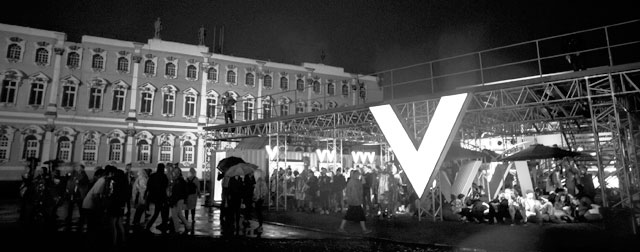
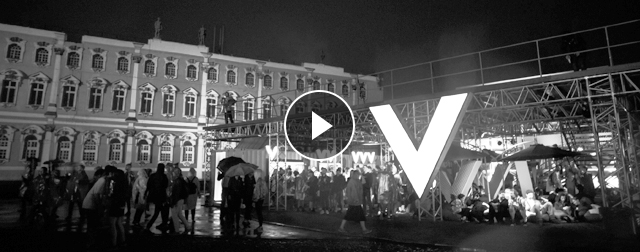
video new jpg

Changed region(s): [[0.4375, 0.3611, 0.5625, 0.6389]]

diff --git a/index.html b/index.html
@@ -46,7 +46,7 @@
                 26.07.2017
             </div>
             <div class="blog-post__image-wrapper">
-              <a href="http://static.beeline.ru/upload/images/veon_video/VEON_PPF.mp4" target="_blank" class="play-button"><img class="blog-post__image" src="./img/2_640x252.jpg" alt="VEON"></a>
+              <a href="http://static.beeline.ru/upload/images/veon_video/VEON__PPF.mp4" target="_blank" class="play-button"><img class="blog-post__image" src="./img/2_640x252.jpg" alt="VEON"></a>
             </div>
             </div>
             <div class="blog-post__header">
@@ -61,7 +61,7 @@
                    <br>Выставка FACES&LACES пройдет в Москве с 12 по 13 августа и займет все свободные пространства Парка Горького. На масштабных конструкциях галереи VEON посетители увидят работы актуальных граффити райтеров и представителей альтернативного современного искусства, а музыкальная часть в этом году обещает быть одной из самых важных составляющих мероприятия.<br>
                    <br>Подписавшись на канал FACES&LACES в VEON, посетители смогут быть в курсе всех событий художественной и музыкальной программы. Для пользователей приложения предусмотрены: лучший вид на главную сцену с открытых террас VEON, зоны, объединяющие искусство и технологии, яркие сувениры и самая актуальная информация о выставке в режиме онлайн.<br>
                    <br>Платформа VEON позволяет звонить, писать сообщения, обмениваться фото и видео, быть в курсе всех интересных событий, получать бесплатный легальный контент, подобранный под интересы пользователя, а также специальные предложения – уникальные скидки и бонусы от популярных брендов. Для клиентов «Билайн» в приложении доступны функции личного кабинета, а трафик внутри приложения не тарифицируется. Приложение можно скачать бесплатно в App Store и Google Play.<br>
-                   <br><a href="http://static.beeline.ru/upload/images/veon_video/VEON_PPF.mp4" target="_blank" class="play-button">Смотреть видео</a>
+                   <br><a href="http://static.beeline.ru/upload/images/veon_video/VEON__PPF.mp4" target="_blank" class="play-button">Смотреть видео</a>
                 </span>
             </div>
             <div class="blog-post__cut-description">
